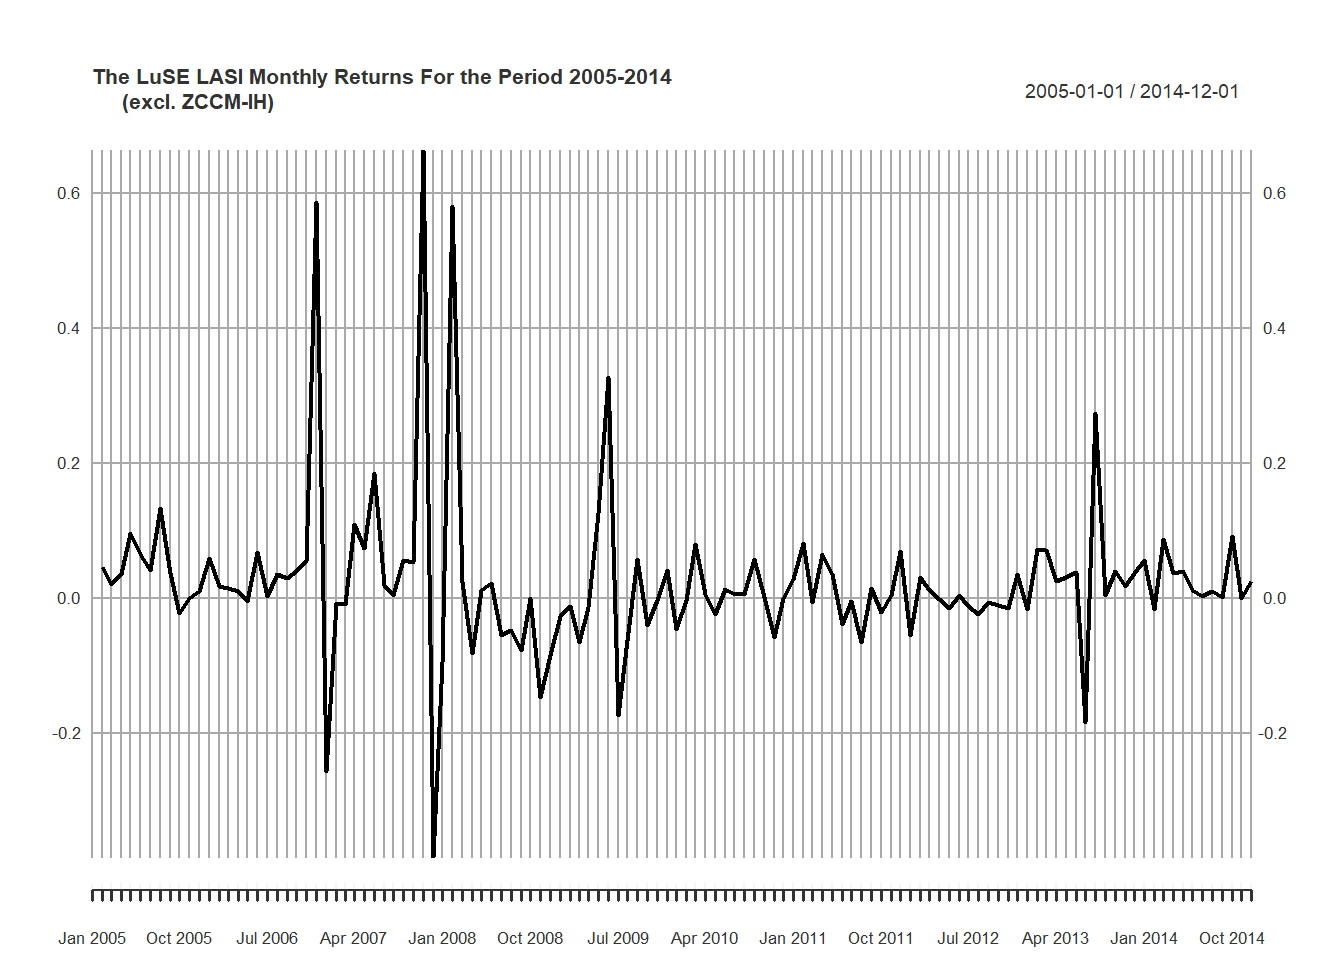
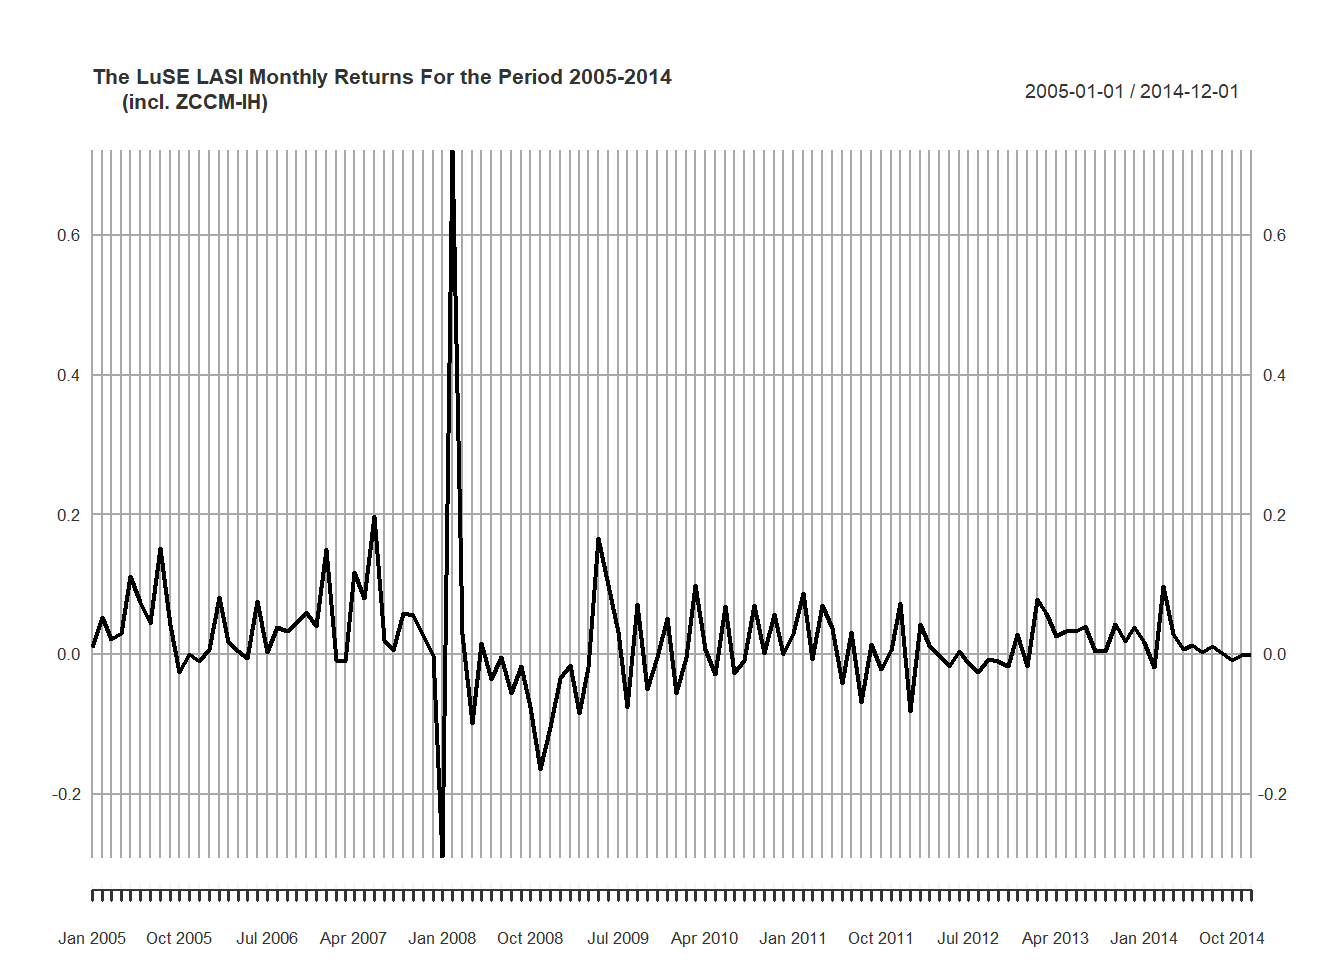
table added

diff --git a/content/post/2017-10-12-breathing-life-into-pdf-presented-data.html b/content/post/2017-10-12-breathing-life-into-pdf-presented-data.html
@@ -20,7 +20,7 @@ fig_height: 3
 
 
 
-<p>It is almost not surprising to find most of the summarised data is presented in the form of a report - whose format is mainly Portable Document Format (PDF). The challenge is when you would like to access that data in a dynamic format and form - where it can be analysed, reformatted and reshaped to your desire; a requirement which is hard, if not impossible to achieve with data presented in a PDF report. Trying to do so would be like wishing to extra water from a rock, which is an endeavour in futility.</p>
+<p>It is almost not surprising to find most of the summarised data is presented in the form of a report - whose format is mainly Portable Document Format (PDF). The challenge is when you would like to access that data in a dynamic format and form - where it can be analysed, reformatted and reshaped to your desire; a requirement which is hard, if not impossible to achieve with data presented in a PDF report. Trying to do so would be like wishing to extract water from a rock, which is an endeavour in futility.</p>
 <p>The good news is, technology seem to run on a brain of its own. While one side of the technology spectrum impedes, another end liberate. One such solution to extracting the dead and static PDF presented data, is to turn to the powerful and versatile R package, <code>tabulizer</code>. The <a href="https://github.com/ropensci/tabulizer">tabulizer</a> package is an R wrapper for the powerful PDF extractor Java library <a href="https://github.com/tabulapdf/tabula-java/">Tabula</a>. This package allows one to extract with ease, data presented in tables in PDF. For as long as the data is in a clean and unclustered format. The package will try to guess the delimiters for the data and extract the data in the format which maintains close to the original data outline.</p>
 <div id="installation" class="section level2">
 <h2>Installation</h2>
@@ -135,6 +135,321 @@ cso_transformed</code></pre>
 ##  9  2011      southern   1,642,757
 ## 10  2011       western     926,478
 ## # ... with 50 more rows</code></pre>
+<p>For the full data table view, see the table below.</p>
+<pre class="r"><code>knitr::kable(cso_transformed, booktabs = TRUE, 
+             caption = &quot;Census data per Province&quot;)  </code></pre>
+<table>
+<caption><span id="tab:unnamed-chunk-8">Table 1: </span>Census data per Province</caption>
+<thead>
+<tr class="header">
+<th align="left">year</th>
+<th align="left">province</th>
+<th align="left">census_proj</th>
+</tr>
+</thead>
+<tbody>
+<tr class="odd">
+<td align="left">2011</td>
+<td align="left">central</td>
+<td align="left">1,355,775</td>
+</tr>
+<tr class="even">
+<td align="left">2011</td>
+<td align="left">copperbelt</td>
+<td align="left">2,143,413</td>
+</tr>
+<tr class="odd">
+<td align="left">2011</td>
+<td align="left">eastern</td>
+<td align="left">1,628,880</td>
+</tr>
+<tr class="even">
+<td align="left">2011</td>
+<td align="left">luapula</td>
+<td align="left">1,015,629</td>
+</tr>
+<tr class="odd">
+<td align="left">2011</td>
+<td align="left">lusaka</td>
+<td align="left">2,362,967</td>
+</tr>
+<tr class="even">
+<td align="left">2011</td>
+<td align="left">muchinga</td>
+<td align="left">749,449</td>
+</tr>
+<tr class="odd">
+<td align="left">2011</td>
+<td align="left">northen</td>
+<td align="left">1,146,392</td>
+</tr>
+<tr class="even">
+<td align="left">2011</td>
+<td align="left">north.western</td>
+<td align="left">746,982</td>
+</tr>
+<tr class="odd">
+<td align="left">2011</td>
+<td align="left">southern</td>
+<td align="left">1,642,757</td>
+</tr>
+<tr class="even">
+<td align="left">2011</td>
+<td align="left">western</td>
+<td align="left">926,478</td>
+</tr>
+<tr class="odd">
+<td align="left">2015</td>
+<td align="left">central</td>
+<td align="left">1,515,086</td>
+</tr>
+<tr class="even">
+<td align="left">2015</td>
+<td align="left">copperbelt</td>
+<td align="left">2,362,207</td>
+</tr>
+<tr class="odd">
+<td align="left">2015</td>
+<td align="left">eastern</td>
+<td align="left">1,813,445</td>
+</tr>
+<tr class="even">
+<td align="left">2015</td>
+<td align="left">luapula</td>
+<td align="left">1,127,453</td>
+</tr>
+<tr class="odd">
+<td align="left">2015</td>
+<td align="left">lusaka</td>
+<td align="left">2,777,439</td>
+</tr>
+<tr class="even">
+<td align="left">2015</td>
+<td align="left">muchinga</td>
+<td align="left">895,058</td>
+</tr>
+<tr class="odd">
+<td align="left">2015</td>
+<td align="left">northen</td>
+<td align="left">1,304,435</td>
+</tr>
+<tr class="even">
+<td align="left">2015</td>
+<td align="left">north.western</td>
+<td align="left">833,818</td>
+</tr>
+<tr class="odd">
+<td align="left">2015</td>
+<td align="left">southern</td>
+<td align="left">1,853,464</td>
+</tr>
+<tr class="even">
+<td align="left">2015</td>
+<td align="left">western</td>
+<td align="left">991,500</td>
+</tr>
+<tr class="odd">
+<td align="left">2020</td>
+<td align="left">central</td>
+<td align="left">1,734,601</td>
+</tr>
+<tr class="even">
+<td align="left">2020</td>
+<td align="left">copperbelt</td>
+<td align="left">2,669,635</td>
+</tr>
+<tr class="odd">
+<td align="left">2020</td>
+<td align="left">eastern</td>
+<td align="left">2,065,590</td>
+</tr>
+<tr class="even">
+<td align="left">2020</td>
+<td align="left">luapula</td>
+<td align="left">1,276,608</td>
+</tr>
+<tr class="odd">
+<td align="left">2020</td>
+<td align="left">lusaka</td>
+<td align="left">3,360,183</td>
+</tr>
+<tr class="even">
+<td align="left">2020</td>
+<td align="left">muchinga</td>
+<td align="left">1,095,535</td>
+</tr>
+<tr class="odd">
+<td align="left">2020</td>
+<td align="left">northen</td>
+<td align="left">1,520,004</td>
+</tr>
+<tr class="even">
+<td align="left">2020</td>
+<td align="left">north.western</td>
+<td align="left">950,789</td>
+</tr>
+<tr class="odd">
+<td align="left">2020</td>
+<td align="left">southern</td>
+<td align="left">2,135,794</td>
+</tr>
+<tr class="even">
+<td align="left">2020</td>
+<td align="left">western</td>
+<td align="left">1,076,683</td>
+</tr>
+<tr class="odd">
+<td align="left">2025</td>
+<td align="left">central</td>
+<td align="left">1,979,202</td>
+</tr>
+<tr class="even">
+<td align="left">2025</td>
+<td align="left">copperbelt</td>
+<td align="left">3,016,344</td>
+</tr>
+<tr class="odd">
+<td align="left">2025</td>
+<td align="left">eastern</td>
+<td align="left">2,344,980</td>
+</tr>
+<tr class="even">
+<td align="left">2025</td>
+<td align="left">luapula</td>
+<td align="left">1,439,877</td>
+</tr>
+<tr class="odd">
+<td align="left">2025</td>
+<td align="left">lusaka</td>
+<td align="left">4,004,276</td>
+</tr>
+<tr class="even">
+<td align="left">2025</td>
+<td align="left">muchinga</td>
+<td align="left">1,326,222</td>
+</tr>
+<tr class="odd">
+<td align="left">2025</td>
+<td align="left">northen</td>
+<td align="left">1,763,638</td>
+</tr>
+<tr class="even">
+<td align="left">2025</td>
+<td align="left">north.western</td>
+<td align="left">1,080,072</td>
+</tr>
+<tr class="odd">
+<td align="left">2025</td>
+<td align="left">southern</td>
+<td align="left">2,445,929</td>
+</tr>
+<tr class="even">
+<td align="left">2025</td>
+<td align="left">western</td>
+<td align="left">1,173,598</td>
+</tr>
+<tr class="odd">
+<td align="left">2030</td>
+<td align="left">central</td>
+<td align="left">2,254,435</td>
+</tr>
+<tr class="even">
+<td align="left">2030</td>
+<td align="left">copperbelt</td>
+<td align="left">3,402,007</td>
+</tr>
+<tr class="odd">
+<td align="left">2030</td>
+<td align="left">eastern</td>
+<td align="left">2,655,422</td>
+</tr>
+<tr class="even">
+<td align="left">2030</td>
+<td align="left">luapula</td>
+<td align="left">1,623,991</td>
+</tr>
+<tr class="odd">
+<td align="left">2030</td>
+<td align="left">lusaka</td>
+<td align="left">4,704,135</td>
+</tr>
+<tr class="even">
+<td align="left">2030</td>
+<td align="left">muchinga</td>
+<td align="left">1,587,414</td>
+</tr>
+<tr class="odd">
+<td align="left">2030</td>
+<td align="left">northen</td>
+<td align="left">2,040,926</td>
+</tr>
+<tr class="even">
+<td align="left">2030</td>
+<td align="left">north.western</td>
+<td align="left">1,227,481</td>
+</tr>
+<tr class="odd">
+<td align="left">2030</td>
+<td align="left">southern</td>
+<td align="left">2,793,523</td>
+</tr>
+<tr class="even">
+<td align="left">2030</td>
+<td align="left">western</td>
+<td align="left">1,286,880</td>
+</tr>
+<tr class="odd">
+<td align="left">2035</td>
+<td align="left">central</td>
+<td align="left">2,565,450</td>
+</tr>
+<tr class="even">
+<td align="left">2035</td>
+<td align="left">copperbelt</td>
+<td align="left">3,823,642</td>
+</tr>
+<tr class="odd">
+<td align="left">2035</td>
+<td align="left">eastern</td>
+<td align="left">3,001,152</td>
+</tr>
+<tr class="even">
+<td align="left">2035</td>
+<td align="left">luapula</td>
+<td align="left">1,834,667</td>
+</tr>
+<tr class="odd">
+<td align="left">2035</td>
+<td align="left">lusaka</td>
+<td align="left">5,465,775</td>
+</tr>
+<tr class="even">
+<td align="left">2035</td>
+<td align="left">muchinga</td>
+<td align="left">1,879,642</td>
+</tr>
+<tr class="odd">
+<td align="left">2035</td>
+<td align="left">northen</td>
+<td align="left">2,355,007</td>
+</tr>
+<tr class="even">
+<td align="left">2035</td>
+<td align="left">north.western</td>
+<td align="left">1,397,137</td>
+</tr>
+<tr class="odd">
+<td align="left">2035</td>
+<td align="left">southern</td>
+<td align="left">3,184,855</td>
+</tr>
+<tr class="even">
+<td align="left">2035</td>
+<td align="left">western</td>
+<td align="left">1,416,331</td>
+</tr>
+</tbody>
+</table>
 We can finally take a breather, and enjoy!
 <center>
 <iframe src="https://giphy.com/embed/13r9tgg7ZisiT6" width="480" height="360" frameBorder="0" class="giphy-embed" allowFullScreen>

diff --git a/content/post/2017-07-18-luse-analysis.html b/content/post/2017-07-18-luse-analysis.html
@@ -34,16 +34,21 @@ image: "images/background.jpg"
 <p class="caption">Source: Bloomberg</p>
 </div>
 </div>
-<p>What’s impressive from this table is that from the period 1997-2016, Zambia appears 5 times, occupying the first position once in the year 2013. The country appeared 4 within the top 5 spots in terms of risk adjusted equity returns in the world .In local currency terms this reflected an over 40% return as can be seen from figure 4.0 below. Going forward, investors can remain optimistic on the prospects of the emerging markets delivering stellar returns ahead of the developed markets pack. So far, the MSCI Emerging Markets Index has gained 2.7 percent in comparison with 1.5 percent from developed stock markets.</p>
+<p>What’s impressive from this table is that from the period 1997-2016, Zambia appears 5 times, occupying the first position once in the year 2013. The country appeared 4 within the top 5 spots in terms of risk adjusted equity returns in the world .In local currency terms this reflected an over 40% return as can be seen from figure <a href="#fig:first-figure">1</a> below. Going forward, investors can remain optimistic on the prospects of the emerging markets delivering stellar returns ahead of the developed markets pack. So far, the MSCI Emerging Markets Index has gained 2.7 percent in comparison with 1.5 percent from developed stock markets.</p>
 <div id="in-focus" class="section level3">
 <h3>In Focus</h3>
 <p>The following charts give a snapshot of the performance of the Lusaka Securities Exchange All Share index (LASI). For the monthly index data, the period covered is from January 2005 to December 2014. As for the yearly data, it goes all the way back to January 1997- December 2014. Furthermore, I present the data on both time intervals, inclusive and exclusive of the Zambia Consolidated Copper Mines Investment Holdings (ZCCM-IH). This is simply to highlight the effect that the company has on the market index as a whole and on the bigger side, the nation’s economy.</p>
 <p>NB: The returns are computed in the local currency (Kwacha).</p>
 <pre class="r"><code>plot(LASI_monthly$Return, xlab=&quot; Period&quot;,
 ylab=&quot;Return&quot;,
-main=&quot;The LuSE LASI Monthly Returns For the Period 2005-2014
-     (excl. ZCCM-IH)&quot;,cex.main =1, font.main=2)</code></pre>
-<p><img src="/post/2017-07-18-luse-analysis_files/figure-html/unnamed-chunk-3-1.png" width="672" /></p>
+main = &quot;The LuSE LASI Monthly Returns For the Period 2005-2014 (excl. ZCCM-IH)&quot;,
+cex.main =1, font.main=2)</code></pre>
+<div class="figure"><span id="fig:first-figure"></span>
+<img src="/post/2017-07-18-luse-analysis_files/figure-html/first-figure-1.png" alt="The LuSE LASI Monthly Returns For the Period 2005-2014 (excl. ZCCM-IH)" width="672" />
+<p class="caption">
+Figure 1: The LuSE LASI Monthly Returns For the Period 2005-2014 (excl. ZCCM-IH)
+</p>
+</div>
 <p>Most noticeable from the above chart is the greater volatility experienced at the on set of the Global financial crisis. At the height of this crisis we see the index slumping close to -40.0%, conversely, also it hit a record high of more than 60.0% return. The index overall performance is an up-down swing with periods of decent returns and other periods of downward performance.</p>
 </div>
 <div id="monthly-returns-inclusive-of-zccm-ih" class="section level3">
@@ -53,19 +58,34 @@ main=&quot;The LuSE LASI Monthly Returns For the Period 2005-2014
 ylab=&quot;Return&quot;, 
 main=&quot;The LuSE LASI Monthly Returns For the Period 2005-2014 
      (incl. ZCCM-IH)&quot;,cex.main =1, font.main=2)</code></pre>
-<p><img src="/post/2017-07-18-luse-analysis_files/figure-html/unnamed-chunk-4-1.png" width="672" /></p>
+<div class="figure"><span id="fig:unnamed-chunk-3"></span>
+<img src="/post/2017-07-18-luse-analysis_files/figure-html/unnamed-chunk-3-1.png" alt="The LuSE LASI Monthly Returns For the Period 2005-2014 (incl. ZCCM-IH)" width="672" />
+<p class="caption">
+Figure 2: The LuSE LASI Monthly Returns For the Period 2005-2014 (incl. ZCCM-IH)
+</p>
+</div>
 <p>The last two charts detail the index on a yearly basis. Though unlike the picture painted from the monthly data, yearly data that goes farther down the years, seem to be carrying a different message on the effect of the company ZCCM-IH. When introduced into the computations, the volatility is more than that observed without its inclusion.</p>
 <pre class="r"><code>plot(LASI_yearly$Return,xlab=&quot; Period&quot;, 
 ylab=&quot;Return&quot;, 
 main=&quot;The LuSE LASI yearly Returns For the Period 1997-2014 
      (excl. ZCCM-IH)&quot;,cex.main =1, font.main=2)</code></pre>
-<p><img src="/post/2017-07-18-luse-analysis_files/figure-html/unnamed-chunk-5-1.png" width="672" /></p>
+<div class="figure"><span id="fig:unnamed-chunk-4"></span>
+<img src="/post/2017-07-18-luse-analysis_files/figure-html/unnamed-chunk-4-1.png" alt="The LuSE LASI yearly Returns For the Period 1997-2014 (excl. ZCCM-IH)" width="672" />
+<p class="caption">
+Figure 3: The LuSE LASI yearly Returns For the Period 1997-2014 (excl. ZCCM-IH)
+</p>
+</div>
 <p><strong>Inclusive of ZCCM-IH yearly LASI Index returns</strong></p>
 <pre class="r"><code>plot(LASI_yearly_zccm$Return, 
 xlab=&quot; Period&quot;, ylab=&quot;Return&quot;, 
 main=&quot;The LuSE LASI yearly Returns For the Period 1997-2014 
      (incl. ZCCM-IH)&quot;,cex.main =1, font.main=2)</code></pre>
-<p><img src="/post/2017-07-18-luse-analysis_files/figure-html/unnamed-chunk-6-1.png" width="672" /></p>
+<div class="figure"><span id="fig:unnamed-chunk-5"></span>
+<img src="/post/2017-07-18-luse-analysis_files/figure-html/unnamed-chunk-5-1.png" alt="The LuSE LASI yearly Returns For the Period 1997-2014 (incl. ZCCM-IH)" width="672" />
+<p class="caption">
+Figure 4: The LuSE LASI yearly Returns For the Period 1997-2014 (incl. ZCCM-IH)
+</p>
+</div>
 </div>
 <div id="final-remarks" class="section level3">
 <h3>Final Remarks</h3>
